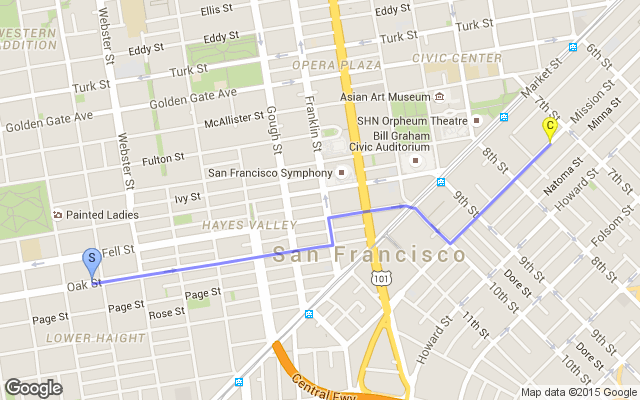
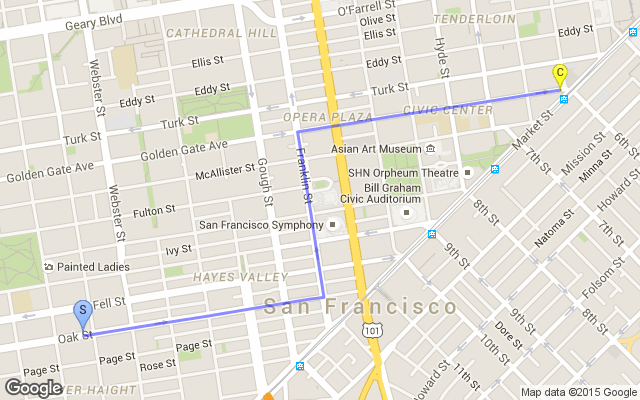
Maps Enhanced

diff --git a/src/taxidriverproject/MapEngine.java b/src/taxidriverproject/MapEngine.java
@@ -1,6 +1,9 @@
 package taxidriverproject;import java.net.*;
 import java.io.*;
 import java.util.Iterator;
+import javax.swing.JEditorPane;
+import javax.swing.JFrame;
+import javax.swing.JScrollPane;
 import org.json.simple.JSONArray;
 import org.json.simple.JSONObject;
 import org.json.simple.parser.JSONParser;
@@ -40,7 +43,6 @@ public class MapEngine {
     
     MapEngine(MapNode m)
     {
-        //Type 0: Distance matrix api
          node = m;
          time = -1;
          dist = -1;
@@ -72,7 +74,6 @@ public class MapEngine {
     private void setPolyLine()
     {
         Obj =  Utility.requestJSON(node, 1);
-        //System.out.println(Obj);
         JSONArray routes = (JSONArray)Obj.get("routes");
         JSONObject temp = (JSONObject)routes.get(0);
         JSONObject pl = (JSONObject)temp.get("overview_polyline");
@@ -80,7 +81,6 @@ public class MapEngine {
     }
     
     //InterFacing Functions
-    
     public double getTime()
     {
         if(time==-1)
@@ -115,6 +115,15 @@ public class MapEngine {
     public void makeMap()
     {
         Utility.makeMap(node,2,getPolyLine());
+    } 
+    public void displayMap() throws Exception
+    {
+        String url  = "https://www.google.co.in/maps/dir/"
+                + node.sLat + "+" + node.sLon + "/" + node.dLat +"+" + node.dLon +"/"
+                + "@37.7496926,-122.5078631,27463m/"
+                + "data=!3m1!1e3!4m13!4m12!1m5!1m1!1s0x0:0x0!2m2!1d-122.431297!2d37.773972"
+                + "!1m5!1m1!1s0x0:0x0!2m2!1d-122.431297!2d37.773972?hl=en";
+        
+        java.awt.Desktop.getDesktop().browse(java.net.URI.create(url));
     }
-  
 }

diff --git a/src/taxidriverproject/TaxiDriverProject.java b/src/taxidriverproject/TaxiDriverProject.java
@@ -41,17 +41,9 @@ public class TaxiDriverProject {
         //Data Loaded
         System.out.print("Data Loaded");
         System.out.println(lat + " " + lon + " " +data.size());
-        //Getting Data using J-Form
-        /*InputWindow IW = new InputWindow();
-        IW.setDefaultCloseOperation(JFrame.EXIT_ON_CLOSE);
-        IW.initialize(this);*/
-        //user gps location and curr time input
-        /*Scanner in = new Scanner(System.in);
-        time = in.nextDouble();
-        lat = in.nextDouble();
-        lon = in.nextDouble();*/
+    
     }
-    void execute()
+    void execute() throws Exception
     {
         System.out.println(lat + " " + lon + " " +data.size());
         KMeans Obj = new KMeans();
@@ -74,6 +66,7 @@ public class TaxiDriverProject {
         System.out.println(googleMaps.getSource());
         System.out.println(googleMaps.getDistance());
         googleMaps.makeMap();
+        googleMaps.displayMap();
         OutputFrame output = new OutputFrame(googleMaps.getDestination(), googleMaps.getDistance(), googleMaps.getTime());
         
     }
